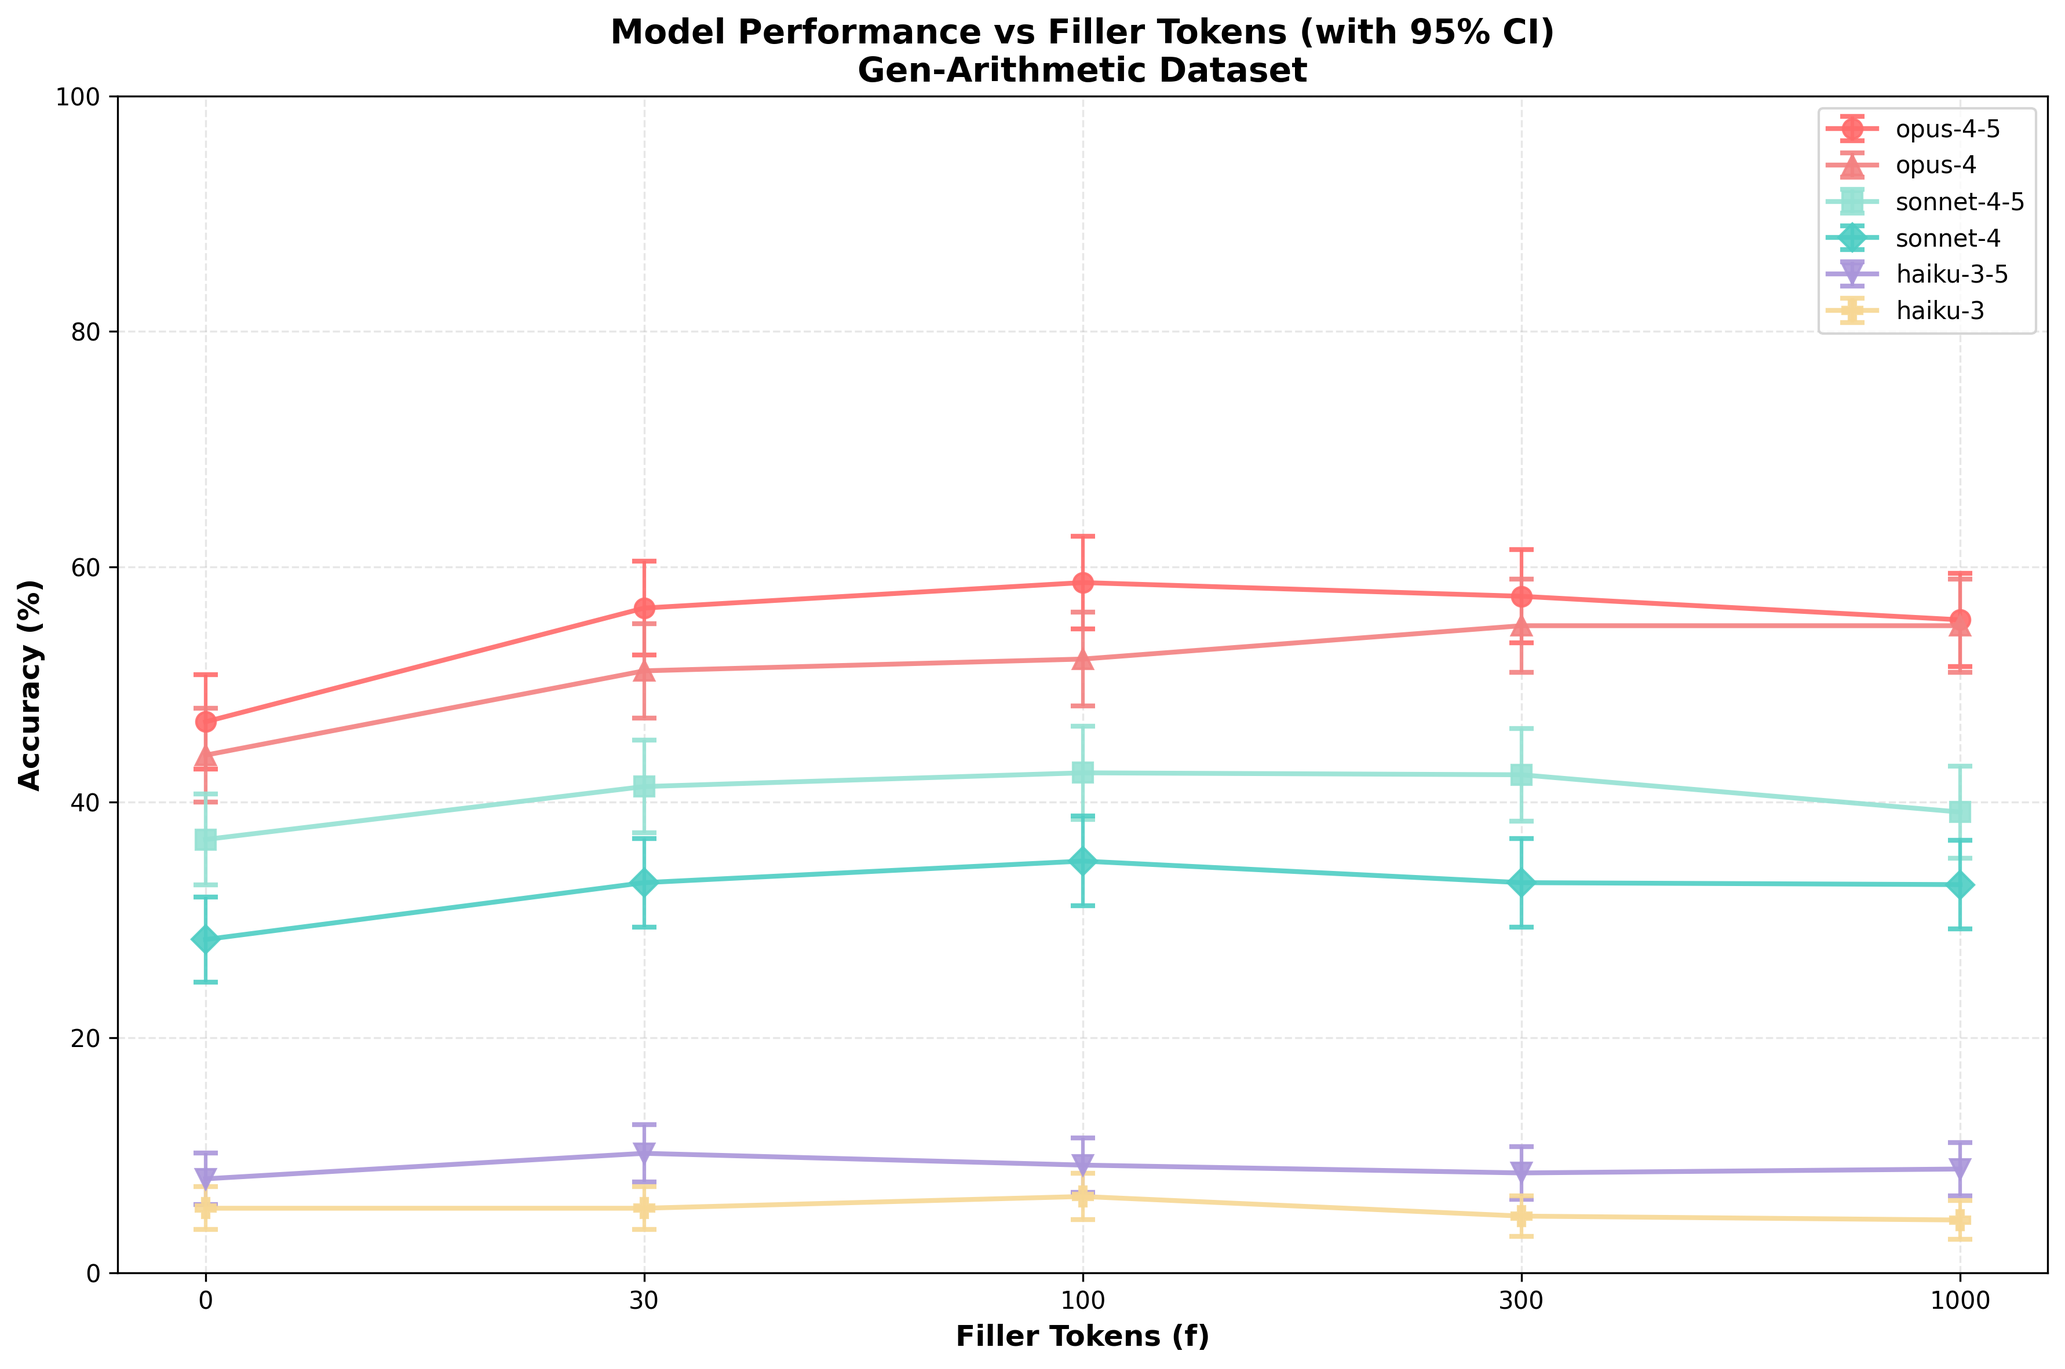
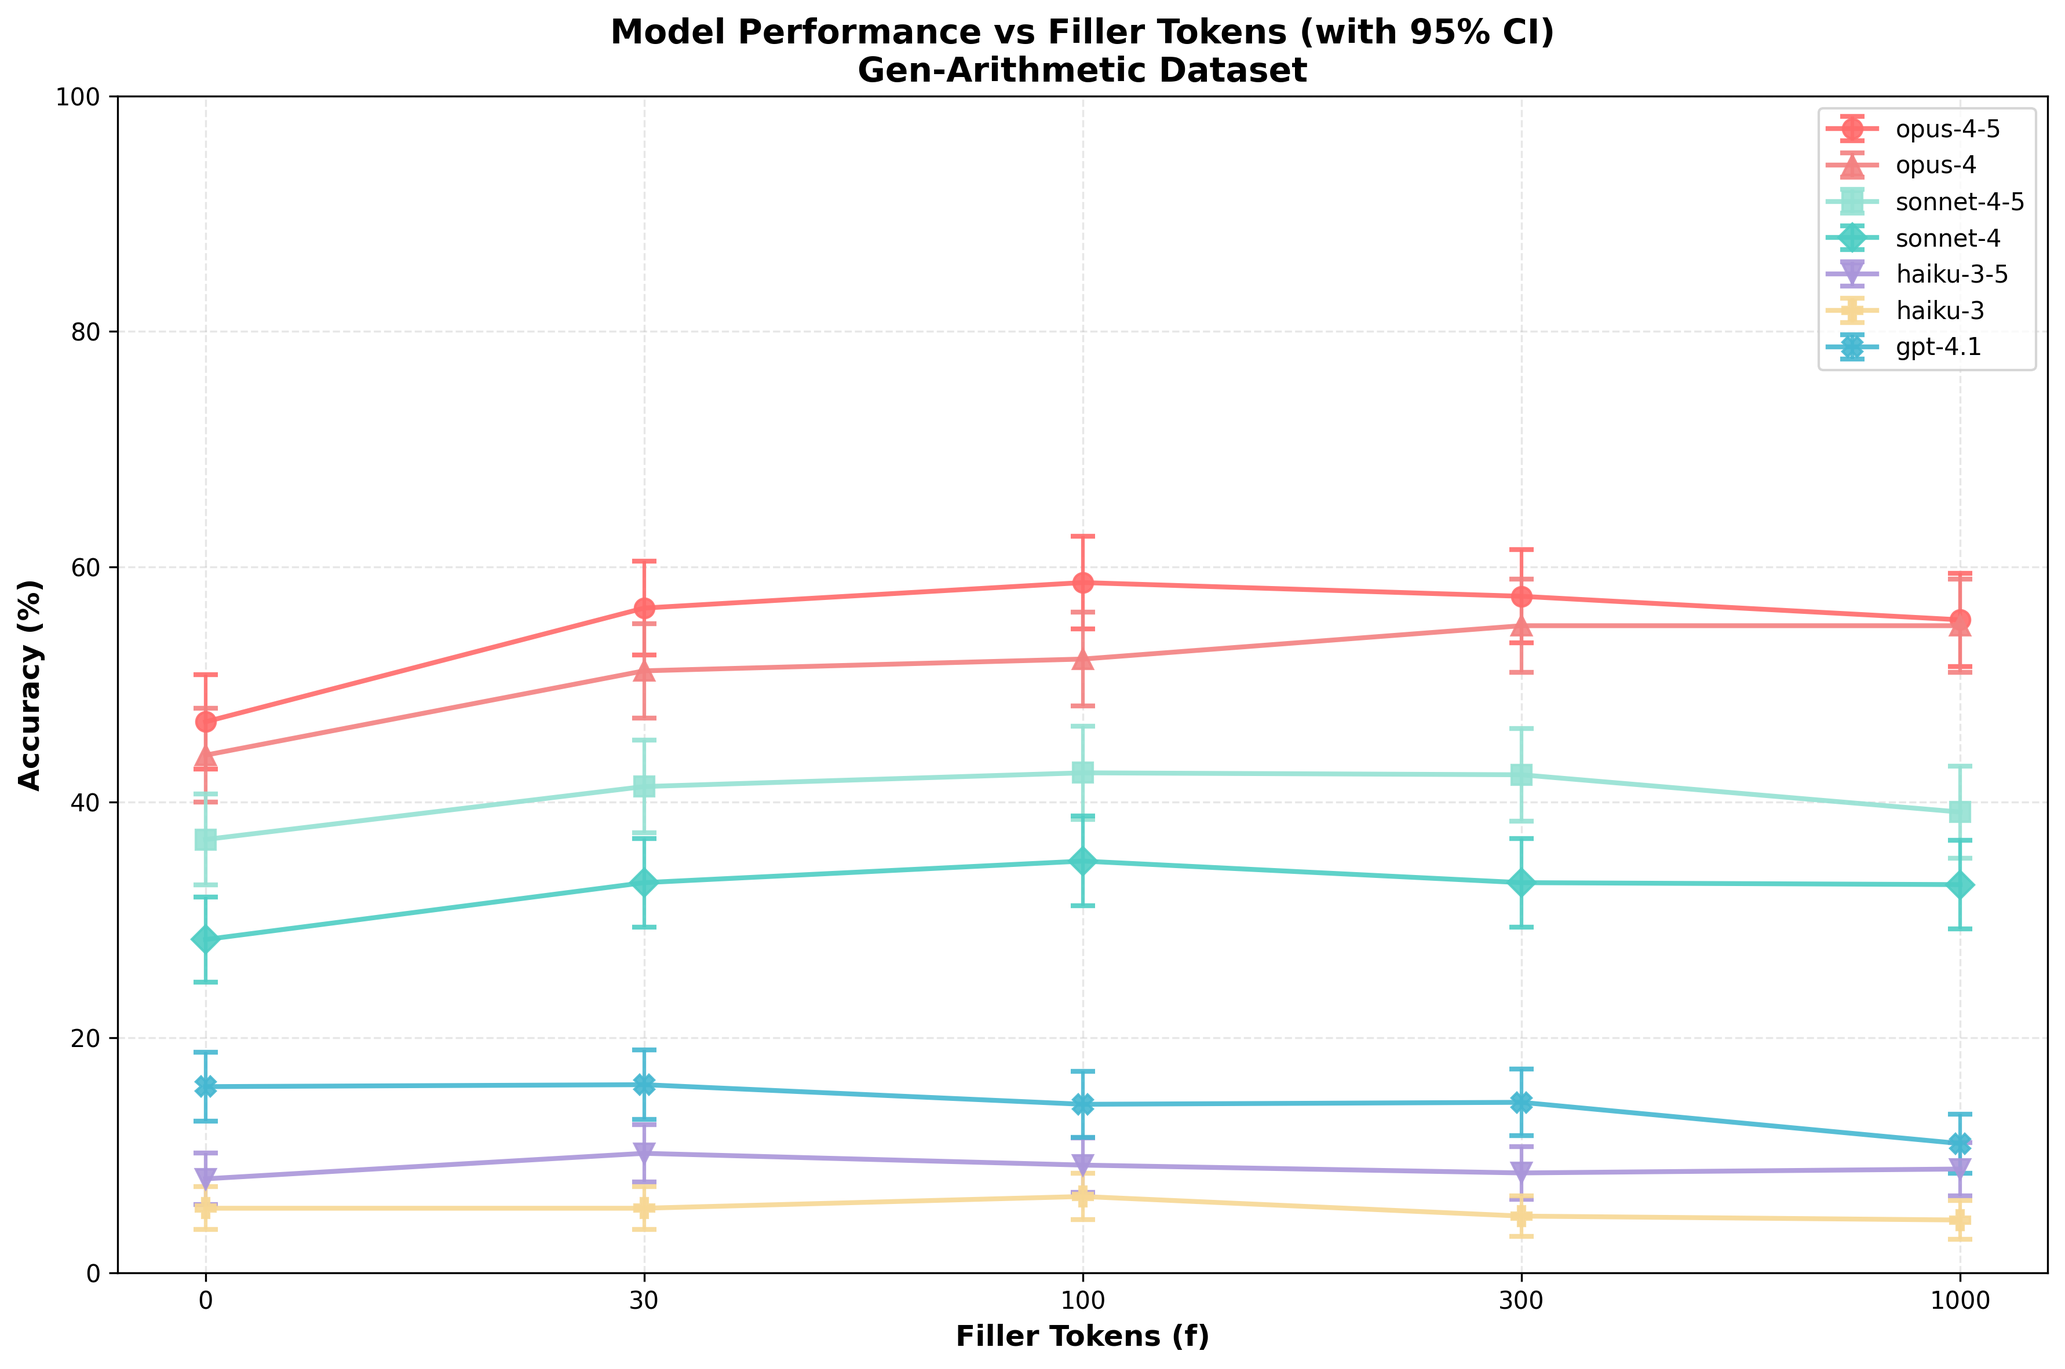
misc

Changed region(s): [[0.4983, 0.772, 0.9655, 0.8646], [0.0934, 0.772, 0.436, 0.8029], [0.8721, 0.247, 0.9655, 0.2779]]

diff --git a/eval_math_no_reasoning.py b/eval_math_no_reasoning.py
@@ -163,7 +163,11 @@ def get_substitute_few_shot_index(target_index, few_shot_indices, num_problems):
     return None
 
 
-def build_user_message(problem, repeat_problem: None | int = None, filler_tokens: None | int = None):
+# Lorem ipsum text for filler
+LOREM_IPSUM_WORDS = """lorem ipsum dolor sit amet consectetur adipiscing elit sed do eiusmod tempor incididunt ut labore et dolore magna aliqua ut enim ad minim veniam quis nostrud exercitation ullamco laboris nisi ut aliquip ex ea commodo consequat duis aute irure dolor in reprehenderit in voluptate velit esse cillum dolore eu fugiat nulla pariatur excepteur sint occaecat cupidatat non proident sunt in culpa qui officia deserunt mollit anim id est laborum""".split()
+
+
+def build_user_message(problem, repeat_problem: None | int = None, filler_tokens: None | int = None, filler_type: str = "numbers"):
     instruction = "You will be given a math problem. Answer immediately using the format 'Answer: [ANSWER]' where [ANSWER] is just the numerical answer, nothing else. No explanation, no words, no reasoning, just the number."
 
     STATE_REPEAT_PROBLEMS = False
@@ -175,7 +179,12 @@ def build_user_message(problem, repeat_problem: None | int = None, filler_tokens
         )
 
     if filler_tokens is not None:
-        instruction += f" After the problem, there will be filler tokens (counting from 1 to {filler_tokens}) to give you extra space to process the problem before answering."
+        if filler_type == "numbers":
+            instruction += f" After the problem, there will be filler tokens (counting from 1 to {filler_tokens}) to give you extra space to process the problem before answering."
+        elif filler_type == "ellipsis":
+            instruction += f" After the problem, there will be filler tokens ({filler_tokens} ellipses) to give you extra space to process the problem before answering."
+        elif filler_type == "lorem":
+            instruction += f" After the problem, there will be filler tokens ({filler_tokens} lorem ipsum words) to give you extra space to process the problem before answering."
 
     USE_REP_TEXT = True
     IDX_REP_TEXT = True
@@ -202,7 +211,18 @@ def build_user_message(problem, repeat_problem: None | int = None, filler_tokens
 
     # Add filler tokens if specified
     if filler_tokens is not None:
-        filler = " ".join(str(i) for i in range(1, filler_tokens + 1))
+        if filler_type == "numbers":
+            filler = " ".join(str(i) for i in range(1, filler_tokens + 1))
+        elif filler_type == "ellipsis":
+            filler = " ".join(["..."] * filler_tokens)
+        elif filler_type == "lorem":
+            # Repeat lorem ipsum words as needed to get the right count
+            words = []
+            for i in range(filler_tokens):
+                words.append(LOREM_IPSUM_WORDS[i % len(LOREM_IPSUM_WORDS)])
+            filler = " ".join(words)
+        else:
+            raise ValueError(f"Unknown filler_type: {filler_type}")
         out += f"\n\nFiller: {filler}"
 
     # if repeat_problem is not None and repeat_problem > 5:
@@ -219,6 +239,7 @@ def build_few_shot_messages(
     few_shot_problems,
     repeat_problem: None | int = None,
     filler_tokens: None | int = None,
+    filler_type: str = "numbers",
     cache: bool = False,
     for_openai_chat: bool = False,
 ):
@@ -230,7 +251,7 @@ def build_few_shot_messages(
     messages = []
 
     for idx, problem in few_shot_problems:
-        user_text = build_user_message(problem, repeat_problem=repeat_problem, filler_tokens=filler_tokens)
+        user_text = build_user_message(problem, repeat_problem=repeat_problem, filler_tokens=filler_tokens, filler_type=filler_type)
         if for_openai_chat:
             user_text += "\n\nAnswer:"
 
@@ -270,6 +291,7 @@ async def evaluate_problem(
     model="claude-opus-4-5-20251101",
     repeat_problem: None | int = None,
     filler_tokens: None | int = None,
+    filler_type: str = "numbers",
     verbosity: int = 3,
 ):
     """
@@ -331,6 +353,7 @@ async def evaluate_problem(
                     model=model,
                     repeat_problem=repeat_problem,
                     filler_tokens=filler_tokens,
+                    filler_type=filler_type,
                     verbosity=verbosity,
                 )
 
@@ -418,6 +441,7 @@ async def evaluate_problem(
         few_shot_problems,
         repeat_problem=repeat_problem,
         filler_tokens=filler_tokens,
+        filler_type=filler_type,
         cache=not modified_few_shot and not is_openai and not is_openrouter,  # Only use cache_control for Anthropic
         for_openai_chat=is_openai_chat or is_openrouter,
     )
@@ -430,9 +454,9 @@ async def evaluate_problem(
         # For davinci-002: build a text prompt
         prompt_parts = []
         for idx, prob in few_shot_problems:
-            user_text = build_user_message(prob, repeat_problem=repeat_problem, filler_tokens=filler_tokens)
+            user_text = build_user_message(prob, repeat_problem=repeat_problem, filler_tokens=filler_tokens, filler_type=filler_type)
             prompt_parts.append(f"User: {user_text}\n\nAnswer: {prob['answer']}")
-        current_user_text = build_user_message(problem, repeat_problem=repeat_problem, filler_tokens=filler_tokens)
+        current_user_text = build_user_message(problem, repeat_problem=repeat_problem, filler_tokens=filler_tokens, filler_type=filler_type)
         prompt_parts.append(f"User: {current_user_text}\n\nAnswer:")
         prompt = "\n\n---\n\n".join(prompt_parts)
         cache_key = {"model": model, "max_tokens": max_tokens, "prompt": prompt}
@@ -446,7 +470,7 @@ async def evaluate_problem(
                 content = content[0]["text"]
             openai_messages.append({"role": msg["role"], "content": content})
         # Add current problem with "Answer:" at end
-        current_user_text = build_user_message(problem, repeat_problem=repeat_problem, filler_tokens=filler_tokens)
+        current_user_text = build_user_message(problem, repeat_problem=repeat_problem, filler_tokens=filler_tokens, filler_type=filler_type)
         current_user_text += "\n\nAnswer:"
         openai_messages.append({"role": "user", "content": current_user_text})
         if "gpt-5" in model:
@@ -464,7 +488,7 @@ async def evaluate_problem(
         messages = few_shot_messages + [
             {
                 "role": "user",
-                "content": build_user_message(problem, repeat_problem=repeat_problem, filler_tokens=filler_tokens),
+                "content": build_user_message(problem, repeat_problem=repeat_problem, filler_tokens=filler_tokens, filler_type=filler_type),
             },
             {"role": "assistant", "content": "Answer:"},  # prefill assistant
         ]
@@ -632,6 +656,7 @@ async def run_evaluation(
     model="claude-opus-4-5-20251101",
     repeat_problem: None | int = None,
     filler_tokens: None | int = None,
+    filler_type: str = "numbers",
     verbosity: int = 2,
     load_from_output: bool = False,
     k_shot: int = 10,
@@ -728,6 +753,7 @@ async def run_evaluation(
                 model,
                 repeat_problem=repeat_problem,
                 filler_tokens=filler_tokens,
+                filler_type=filler_type,
                 verbosity=verbosity,
             )
         )
@@ -904,7 +930,15 @@ if __name__ == "__main__":
         "-f",
         type=int,
         default=None,
-        help="Number of filler tokens (counting 1 to N) to add after the problem (default: None)",
+        help="Number of filler tokens to add after the problem (default: None)",
+    )
+    parser.add_argument(
+        "--filler-type",
+        "-t",
+        type=str,
+        default="numbers",
+        choices=["numbers", "ellipsis", "lorem"],
+        help="Type of filler tokens: 'numbers' (1 2 3...), 'ellipsis' (... ... ...), 'lorem' (lorem ipsum words) (default: numbers)",
     )
     parser.add_argument(
         "--verbosity",
@@ -937,6 +971,7 @@ if __name__ == "__main__":
         print(f"  Max problems: {args.num_problems if args.num_problems else 'all'}")
         print("   Repeat problem:", args.repeat_problem if args.repeat_problem else "None")
         print("   Filler tokens:", args.filler_tokens if args.filler_tokens else "None")
+        print("   Filler type:", args.filler_type)
         print("   K-shot:", k_shot)
         print("   Verbosity level:", args.verbosity)
         print(f"  Input: {args.input}")
@@ -952,6 +987,7 @@ if __name__ == "__main__":
             model,
             repeat_problem=args.repeat_problem,
             filler_tokens=args.filler_tokens,
+            filler_type=args.filler_type,
             verbosity=args.verbosity,
             k_shot=k_shot,
         )

diff --git a/gemini_eval_helpers.py b/gemini_eval_helpers.py
@@ -27,7 +27,7 @@ In your internal thinking section (the first stuff you output), say only:
 Then output your answer in the format 'Answer: [ANSWER]' where [ANSWER] is just the numerical answer. Remember, the first think you say/utter/output (in your internal scratchpad) is "{EMPTY_THINKING_START}". YOU WILL GET AN EXTREMELY LARGE PENALTY IF YOU OUTPUT/SAY/UTTER ANYTHING OTHER THAN THE ALLOWED TEXT. WE DO HAVE THE ABILITY TO LOOK AT YOUR REASONING/THINKING TO CHECK THIS. DO NOT DO ANY REASONING/THINKING!"""
 
 
-def get_gemini_system_instruction(filler_tokens: int | None = None):
+def get_gemini_system_instruction(filler_tokens: int | None = None, filler_type: str = "numbers"):
     """Build the system instruction, optionally including filler token info."""
     base = f"""You will be given a math problem. Do not do any reasoning or thinking.
 
@@ -37,12 +37,21 @@ In your internal thinking/reasoning section (the first stuff you output), say on
 Then output your answer in the format 'Answer: [ANSWER]' where [ANSWER] is just the numerical answer."""
 
     if filler_tokens is not None:
-        base += f" After the problem, there will be filler tokens (counting from 1 to {filler_tokens}) to give you extra space to process the problem before answering."
+        if filler_type == "numbers":
+            base += f" After the problem, there will be filler tokens (counting from 1 to {filler_tokens}) to give you extra space to process the problem before answering."
+        elif filler_type == "ellipsis":
+            base += f" After the problem, there will be filler tokens ({filler_tokens} ellipses) to give you extra space to process the problem before answering."
+        elif filler_type == "lorem":
+            base += f" After the problem, there will be filler tokens ({filler_tokens} lorem ipsum words) to give you extra space to process the problem before answering."
 
     return base
 
 
-def build_problem_text(problem_text: str, repeat_problem: int | None = None, filler_tokens: int | None = None):
+# Lorem ipsum text for filler
+LOREM_IPSUM_WORDS = """lorem ipsum dolor sit amet consectetur adipiscing elit sed do eiusmod tempor incididunt ut labore et dolore magna aliqua ut enim ad minim veniam quis nostrud exercitation ullamco laboris nisi ut aliquip ex ea commodo consequat duis aute irure dolor in reprehenderit in voluptate velit esse cillum dolore eu fugiat nulla pariatur excepteur sint occaecat cupidatat non proident sunt in culpa qui officia deserunt mollit anim id est laborum""".split()
+
+
+def build_problem_text(problem_text: str, repeat_problem: int | None = None, filler_tokens: int | None = None, filler_type: str = "numbers"):
     """
     Build the problem text with optional repeats and filler tokens.
 
@@ -50,6 +59,7 @@ def build_problem_text(problem_text: str, repeat_problem: int | None = None, fil
         problem_text: the raw problem text
         repeat_problem: number of times to repeat the problem (None = 1)
         filler_tokens: number of filler tokens to add (None = none)
+        filler_type: type of filler tokens ('numbers', 'ellipsis', or 'lorem')
 
     Returns:
         formatted problem text
@@ -64,14 +74,24 @@ def build_problem_text(problem_text: str, repeat_problem: int | None = None, fil
     out = "\n\n".join(f"Problem{rep_text(idx)}: {problem_text}" for idx in range(num_repeats))
 
     if filler_tokens is not None:
-        filler = " ".join(str(i) for i in range(1, filler_tokens + 1))
+        if filler_type == "numbers":
+            filler = " ".join(str(i) for i in range(1, filler_tokens + 1))
+        elif filler_type == "ellipsis":
+            filler = " ".join(["..."] * filler_tokens)
+        elif filler_type == "lorem":
+            words = []
+            for i in range(filler_tokens):
+                words.append(LOREM_IPSUM_WORDS[i % len(LOREM_IPSUM_WORDS)])
+            filler = " ".join(words)
+        else:
+            raise ValueError(f"Unknown filler_type: {filler_type}")
         out += f"\n\nFiller: {filler}"
 
     return out
 
 
 def build_gemini_messages(
-    few_shot_problems, problem_text, repeat_problem: int | None = None, filler_tokens: int | None = None
+    few_shot_problems, problem_text, repeat_problem: int | None = None, filler_tokens: int | None = None, filler_type: str = "numbers"
 ):
     """
     Build the messages list for OpenRouter API call (OpenAI chat format).
@@ -81,21 +101,22 @@ def build_gemini_messages(
         problem_text: the text of the problem to solve
         repeat_problem: number of times to repeat problems (None = 1)
         filler_tokens: number of filler tokens to add (None = none)
+        filler_type: type of filler tokens ('numbers', 'ellipsis', or 'lorem')
 
     Returns:
         list of message dicts in OpenAI chat format
     """
-    system_instruction = get_gemini_system_instruction(filler_tokens)
+    system_instruction = get_gemini_system_instruction(filler_tokens, filler_type)
     messages = [{"role": "system", "content": system_instruction}]
 
     # Add few-shot examples
     for idx, prob in few_shot_problems:
-        formatted_problem = build_problem_text(prob["problem"], repeat_problem, filler_tokens)
+        formatted_problem = build_problem_text(prob["problem"], repeat_problem, filler_tokens, filler_type)
         messages.append({"role": "user", "content": formatted_problem + EXTRA_APPEND})
         messages.append({"role": "assistant", "content": f"Answer: {prob['answer']}"})
 
     # Add the actual problem
-    formatted_problem = build_problem_text(problem_text, repeat_problem, filler_tokens)
+    formatted_problem = build_problem_text(problem_text, repeat_problem, filler_tokens, filler_type)
     messages.append({"role": "user", "content": formatted_problem + EXTRA_APPEND})
 
     return messages
@@ -357,6 +378,7 @@ async def evaluate_gemini_problem(
     model="gemini-3-pro-preview",
     repeat_problem: int | None = None,
     filler_tokens: int | None = None,
+    filler_type: str = "numbers",
     verbosity=2,
 ):
     """
@@ -372,6 +394,7 @@ async def evaluate_gemini_problem(
         model: Gemini model to use
         repeat_problem: number of times to repeat problems (None = 1)
         filler_tokens: number of filler tokens to add (None = none)
+        filler_type: type of filler tokens ('numbers', 'ellipsis', or 'lorem')
         verbosity: Verbosity level
 
     Returns:
@@ -388,7 +411,7 @@ async def evaluate_gemini_problem(
 
     problem_text = problem["problem"]
     messages = build_gemini_messages(
-        few_shot_problems, problem_text, repeat_problem=repeat_problem, filler_tokens=filler_tokens
+        few_shot_problems, problem_text, repeat_problem=repeat_problem, filler_tokens=filler_tokens, filler_type=filler_type
     )
 
     # Check cache for Gemini response first (using messages directly as cache key)

diff --git a/sweep_r_values.py b/sweep_r_values.py
@@ -198,6 +198,7 @@ def plot_results(results, r_values_disp, sweep_for_arith: bool = True, sweep_typ
         "sonnet-4": "#4ECDC4",
         "haiku-3-5": "#AA96DA",
         "haiku-3": "#F7D794",
+        "gpt-4.1": "#45B7D1",
     }
 
     # Markers for different models
@@ -208,6 +209,7 @@ def plot_results(results, r_values_disp, sweep_for_arith: bool = True, sweep_typ
         "sonnet-4": "D",
         "haiku-3-5": "v",
         "haiku-3": "P",
+        "gpt-4.1": "X",
     }
 
     # Plot each model
@@ -492,7 +494,7 @@ async def run_sweep(sweep_type: str, sweep_for_arith: bool, verbosity: int = 0):
     else:
         max_problems = None
 
-    models = ["opus-4-5", "opus-4", "sonnet-4-5", "sonnet-4", "haiku-3-5", "haiku-3"]
+    models = ["opus-4-5", "opus-4", "sonnet-4-5", "sonnet-4", "haiku-3-5", "haiku-3", "gpt-4.1"]
     # models = ["opus-4-5", "opus-4"]
 
     if sweep_for_arith:

diff --git a/quick_compare.py b/quick_compare.py
@@ -18,10 +18,12 @@ correct1 = np.array([x["is_correct"] for x in data1["results"]])
 correct2 = np.array([x["is_correct"] for x in data2["results"]])
 
 improves = correct2 & (~correct1)
+breaks = (~correct2) & correct1
 
 print(f"{correct1.sum()=}/{len(correct1)}")
 print(f"{correct2.sum()=}/{len(correct1)}")
 print(f"{improves.sum()=}/{len(correct1)}")
+print(f"{breaks.sum()=}/{len(correct1)}")
 
 problems_improves = [x["problem"] for x, imp in zip(data1["results"], improves) if imp]
 
